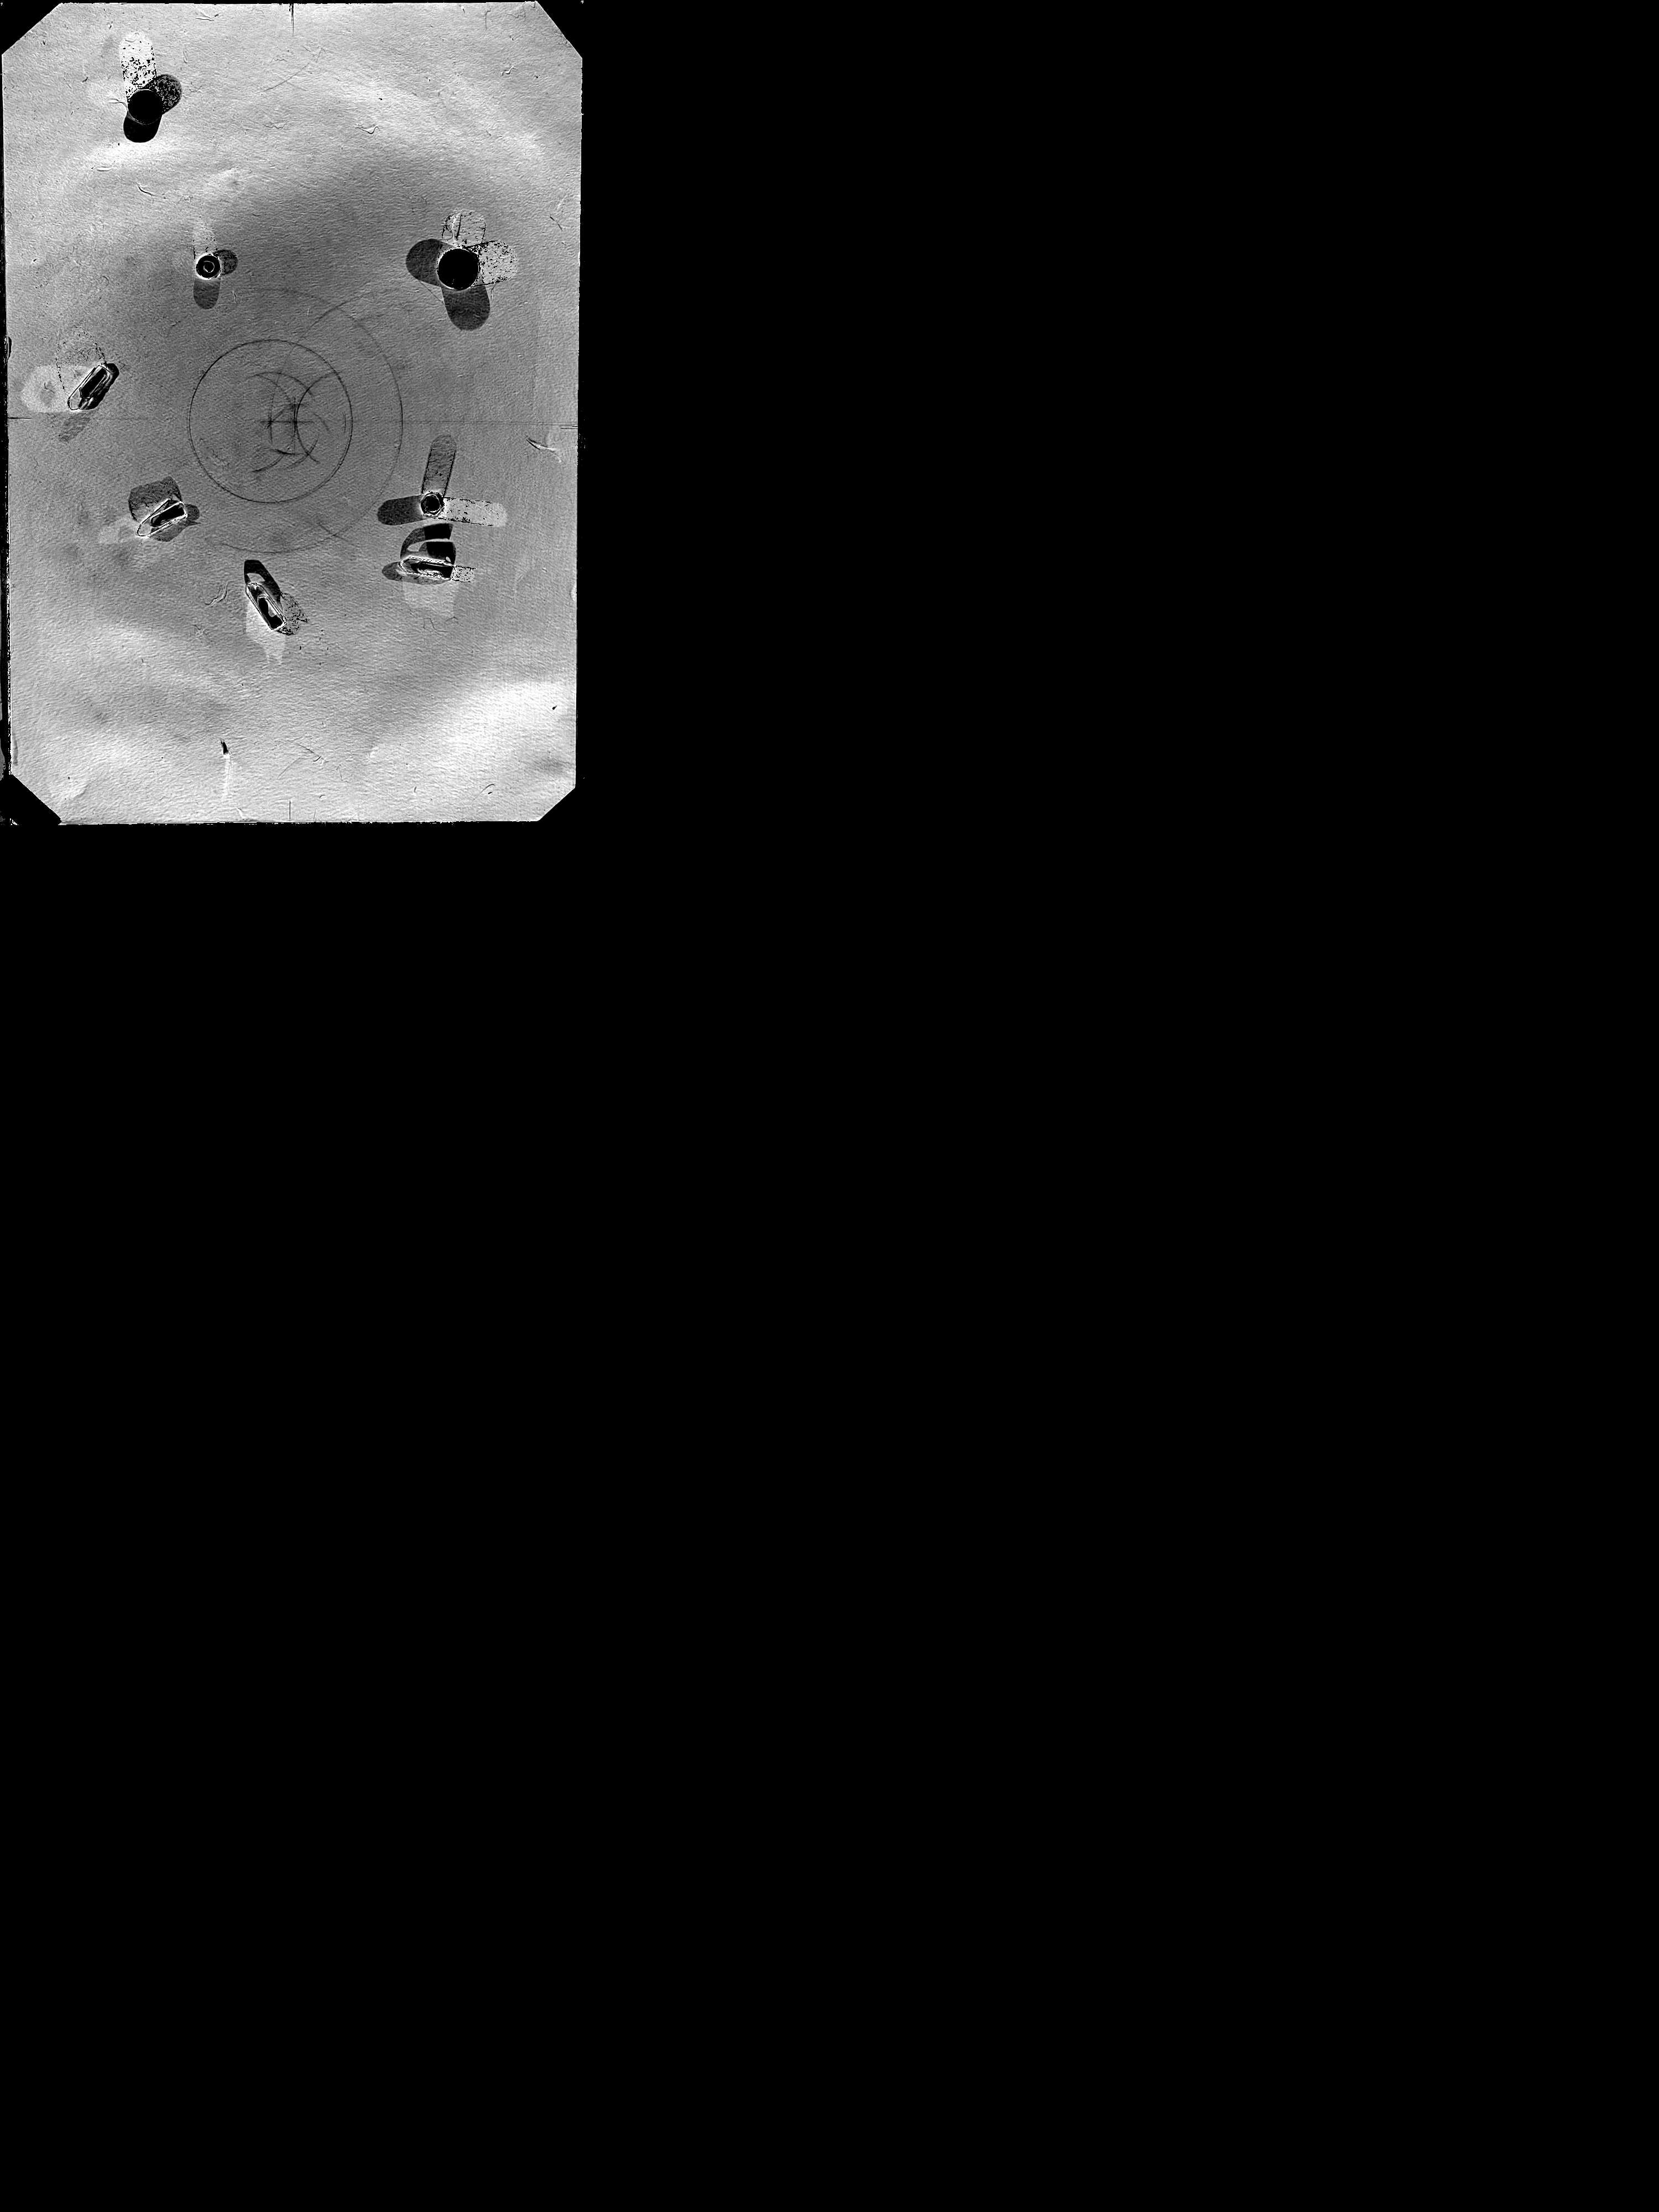
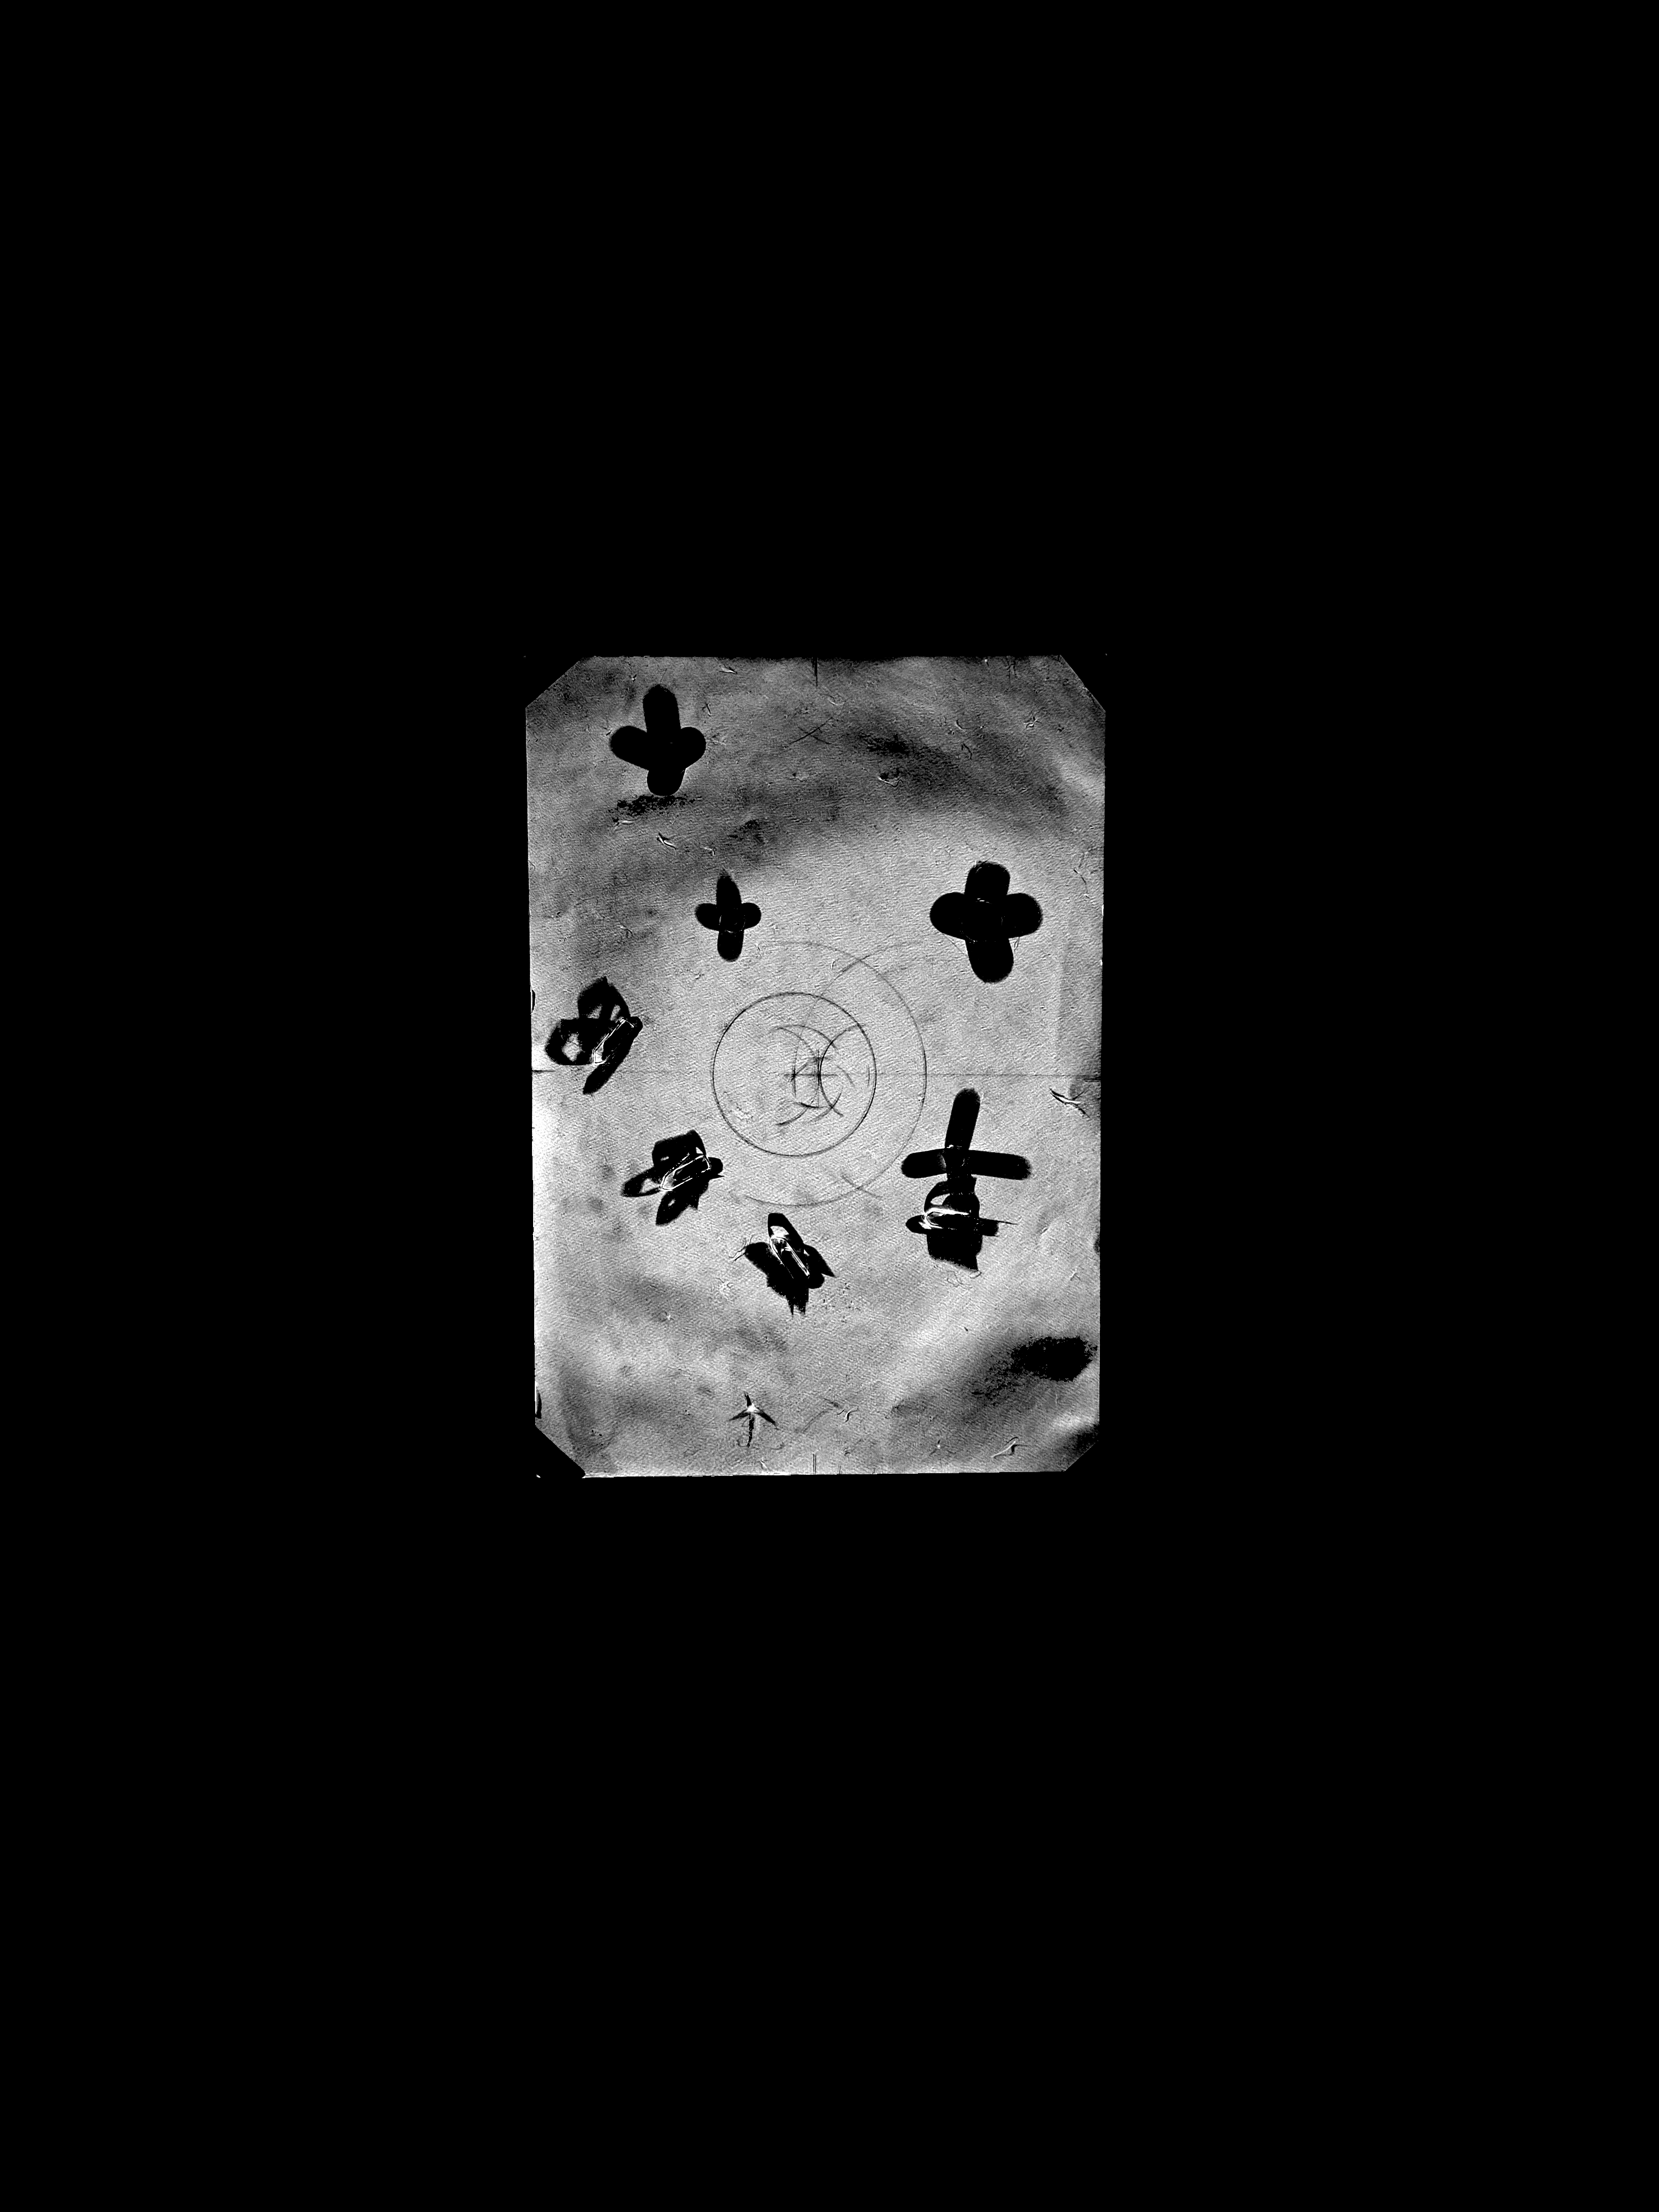
Refactor FastAPI app; add validation & async CV
Rewrite amain.py to a more robust FastAPI server: use pathlib, logging and ThreadPoolExecutor to run CPU-bound cv_core processing via run_in_executor; add Pydantic models with validators for uploads, light vectors and plane points; save uploaded images with UUID-prefixed filenames to avoid collisions; validate and return helpful HTTP errors; serve static/uploads via mounts and add a /health endpoint. Also update result static images and add sample uploads; compiled __pycache__ updated. Fixes argument/typing bugs and prevents event-loop blocking during CV processing.

Changed region(s): [[0.0, 0.0, 0.682, 0.6875]]

diff --git a/amain.py b/amain.py
@@ -1,71 +1,223 @@
-from fastapi import FastAPI, UploadFile, File
-from fastapi.staticfiles import StaticFiles
-from fastapi.responses import FileResponse
-from pydantic import BaseModel
-from typing import List
+"""
+main.py — Servidor FastAPI para o pipeline de Estéreo Fotométrico.
+
+Execução:
+    pip install fastapi uvicorn python-multipart
+    uvicorn main:app --reload --port 8000
+
+Estrutura de pastas esperada:
+    main.py
+    cv_core.py
+    static/
+        index.html       ← copie o index.html para cá
+    uploads/             ← criada automaticamente
+    resultados/          ← criada automaticamente
+"""
+
+import asyncio
+import logging
 import os
 import shutil
-import cv_core  # Importando o seu módulo de CV!
+import uuid
+from concurrent.futures import ThreadPoolExecutor
+from pathlib import Path
+from typing import List
 
-app = FastAPI()
+import cv_core
+from fastapi import FastAPI, File, HTTPException, UploadFile
+from fastapi.responses import FileResponse
+from fastapi.staticfiles import StaticFiles
+from pydantic import BaseModel, Field, field_validator
 
-# Criar pastas se não existirem
-os.makedirs("static", exist_ok=True)
-os.makedirs("uploads", exist_ok=True)
+# ──────────────────────────────────────────────────────────────
+# CONFIGURAÇÃO
+# ──────────────────────────────────────────────────────────────
 
-app.mount("/static", StaticFiles(directory="static"), name="static")
-app.mount("/uploads", StaticFiles(directory="uploads"), name="uploads")
+logging.basicConfig(level=logging.INFO,
+                    format="%(asctime)s [%(levelname)s] %(message)s")
+log = logging.getLogger("photostereo")
+
+DIR_STATIC     = Path("static")
+DIR_UPLOADS    = Path("uploads")
+DIR_RESULTADOS = Path("static")   # Resultados servidos via /static
+
+for d in (DIR_STATIC, DIR_UPLOADS, DIR_RESULTADOS):
+    d.mkdir(exist_ok=True)
+
+# Pool de threads para não bloquear o event loop durante o processamento CV.
+# max_workers=2: evita sobrecarga de RAM em hardware limitado.
+_executor = ThreadPoolExecutor(max_workers=2)
+
+app = FastAPI(title="PhotoStereo Audit", version="3.0")
+
+app.mount("/static",  StaticFiles(directory=DIR_STATIC),  name="static")
+app.mount("/uploads", StaticFiles(directory=DIR_UPLOADS), name="uploads")
+
+
+# ──────────────────────────────────────────────────────────────
+# MODELOS PYDANTIC
+# ──────────────────────────────────────────────────────────────
+
+class PontoPlano(BaseModel):
+    """Coordenada de um canto do plano de referência em pixels."""
+    x: float
+    y: float
+
 
 class CalibracaoData(BaseModel):
-    arquivos: List[str]
-    plano: List[dict] 
-    # Dependendo de como a sua função calcVetorLuz retorna no JS (se é array [x,y,z] ou objeto {x,y,z}), 
-    # deixamos como Any ou List[dict] para o FastAPI não chiar na conversão.
-    vetores_luz: List[Any] 
-    largura_mm: float
-    altura_mm: float
-    metodo_depth: str
-    suavizar_normais: bool # Lista de {px, py} para cada imagem
+    """
+    Payload enviado pelo frontend após a calibração.
+
+    vetores_luz: lista de 4 vetores [Lx, Ly, Lz], pré-calculados pelo
+                 frontend a partir da geometria conhecida (h_mm, d_mm, ângulo).
+                 Cada vetor já chega normalizado — cv_core renormaliza por
+                 segurança de qualquer forma.
+    """
+    arquivos:        List[str]
+    plano:           List[PontoPlano]
+    vetores_luz:     List[List[float]]          # BUG #1 CORRIGIDO: era List[Any] sem import
+    largura_mm:      float  = Field(210.0, gt=0)
+    altura_mm:       float  = Field(297.0, gt=0)
+    metodo_depth:    str    = "poisson"
+    suavizar_normais: bool  = False
+
+    @field_validator("arquivos")
+    @classmethod
+    def validar_n_arquivos(cls, v):
+        if len(v) != 4:
+            raise ValueError(f"Esperado 4 arquivos, recebido {len(v)}.")
+        return v
+
+    @field_validator("vetores_luz")
+    @classmethod
+    def validar_vetores(cls, v):
+        if len(v) != 4:
+            raise ValueError(f"Esperado 4 vetores de luz, recebido {len(v)}.")
+        for i, vec in enumerate(v):
+            if len(vec) != 3:
+                raise ValueError(f"Vetor {i} deve ter 3 componentes [Lx, Ly, Lz].")
+        return v
+
+    @field_validator("plano")
+    @classmethod
+    def validar_plano(cls, v):
+        if len(v) != 4:
+            raise ValueError(f"Esperado 4 pontos do plano, recebido {len(v)}.")
+        return v
+
+    @field_validator("metodo_depth")
+    @classmethod
+    def validar_metodo(cls, v):
+        if v not in ("frankot", "poisson"):
+            raise ValueError("metodo_depth deve ser 'frankot' ou 'poisson'.")
+        return v
 
 
+# ──────────────────────────────────────────────────────────────
+# ENDPOINTS
+# ──────────────────────────────────────────────────────────────
 
 @app.get("/")
 async def read_index():
-    return FileResponse('static/index.html')
+    """Serve a interface HTML principal."""
+    caminho = DIR_STATIC / "index.html"
+    if not caminho.exists():
+        raise HTTPException(404, detail="index.html não encontrado em static/")
+    return FileResponse(caminho)
+
 
 @app.post("/upload_imagens")
 async def upload_imagens(imagens: List[UploadFile] = File(...)):
+    """
+    Recebe as 4 imagens, salva com nomes únicos e devolve os nomes.
+
+    BUG #3 CORRIGIDO: a versão anterior salvava com img.filename original,
+    causando colisão entre sessões com fotos de mesmo nome (ex: IMG_0001.jpg).
+    Agora cada arquivo recebe um UUID como prefixo, garantindo unicidade.
+    """
+    if len(imagens) != 4:
+        raise HTTPException(400, detail=f"Envie exatamente 4 imagens. Recebido: {len(imagens)}.")
+
     arquivos_salvos = []
     for img in imagens:
-        caminho = f"uploads/{img.filename}"
-        with open(caminho, "wb") as buffer:
-            shutil.copyfileobj(img.file, buffer)
-        arquivos_salvos.append(img.filename)
+        # Sanitiza a extensão (mantém somente a extensão original)
+        extensao   = Path(img.filename).suffix.lower() or ".jpg"
+        nome_unico = f"{uuid.uuid4().hex}{extensao}"
+        caminho    = DIR_UPLOADS / nome_unico
+
+        with caminho.open("wb") as buf:
+            shutil.copyfileobj(img.file, buf)
+
+        arquivos_salvos.append(nome_unico)
+        log.info(f"Upload salvo: {nome_unico} (original: {img.filename})")
+
     return {"arquivos": arquivos_salvos}
+
 
 @app.post("/processar")
 async def processar_dados(dados: CalibracaoData):
-    
-    # 1. Preparar caminhos absolutos das imagens
-    caminhos_imagens = [f"uploads/{arquivo}" for arquivo in dados.arquivos]
-    
-    # 2. Chamar o processamento pesado de CV
-    # Agora passamos os vetores de luz diretos do frontend e as novas configurações
-    normal_img, depth_img, albedo_img = cv_core.processar_mapas(
-        imagens=caminhos_imagens, 
-        vetores_luz=dados.vetores_luz, 
-        diretorio_saida="static", 
-        plano=dados.plano,
-        largura_mm=dados.largura_mm,
-        altura_mm=dados.altura_mm,
-        metodo_depth=dados.metodo_depth,
-        suavizar_normais=dados.suavizar_normais
-    )
-    
-    # 3. Retornar os caminhos para o frontend atualizar as tags <img>
+    """
+    Executa o pipeline de Estéreo Fotométrico e devolve URLs dos resultados.
+
+    BUG #4 CORRIGIDO: processar_mapas() é CPU-bound (numpy/opencv).
+    Rodá-lo diretamente em async def bloqueia o event loop inteiro.
+    run_in_executor() delega para um ThreadPoolExecutor e mantém o
+    servidor responsivo durante o processamento.
+    """
+    # Verifica se todos os arquivos existem antes de iniciar
+    caminhos = []
+    for nome in dados.arquivos:
+        p = DIR_UPLOADS / nome
+        if not p.exists():
+            raise HTTPException(404, detail=f"Arquivo não encontrado: {nome}. "
+                                            "Faça o upload novamente.")
+        caminhos.append(str(p))
+
+    # Converte PontoPlano → dict para cv_core (que espera List[dict])
+    plano_dicts = [{"x": pt.x, "y": pt.y} for pt in dados.plano]
+
+    # BUG #2 CORRIGIDO:
+    #   Versão anterior: imagens=, plano=   ← nomes errados → TypeError
+    #   Versão correta:  caminhos_imagens=, plano_coords=
+    def _executar_cv():
+        return cv_core.processar_mapas(
+            caminhos_imagens = caminhos,
+            vetores_luz      = dados.vetores_luz,
+            diretorio_saida  = str(DIR_RESULTADOS),
+            plano_coords     = plano_dicts,
+            largura_mm       = dados.largura_mm,
+            altura_mm        = dados.altura_mm,
+            metodo_depth     = dados.metodo_depth,
+            suavizar_normais = dados.suavizar_normais,
+        )
+
+    log.info(f"Iniciando processamento CV | método: {dados.metodo_depth} | "
+             f"ref: {dados.largura_mm}×{dados.altura_mm}mm")
+
+    try:
+        loop = asyncio.get_event_loop()
+        normal_img, depth_img, albedo_img = await loop.run_in_executor(
+            _executor, _executar_cv
+        )
+    except FileNotFoundError as e:
+        raise HTTPException(404, detail=str(e))
+    except ValueError as e:
+        raise HTTPException(422, detail=str(e))
+    except Exception as e:
+        log.exception("Erro no pipeline CV")
+        raise HTTPException(500, detail=f"Erro interno no processamento: {e}")
+
+    log.info("Processamento concluído com sucesso.")
+
     return {
-        "status": "sucesso",
+        "status":     "sucesso",
         "normal_url": f"/static/{normal_img}",
-        "depth_url": f"/static/{depth_img}",
-        "albedo_url": f"/static/{albedo_img}"
+        "depth_url":  f"/static/{depth_img}",
+        "albedo_url": f"/static/{albedo_img}",
     }
+
+
[email redacted]("/health")
+async def health():
+    """Endpoint de saúde — útil para monitorar se o servidor está de pé."""
+    return {"status": "ok"}